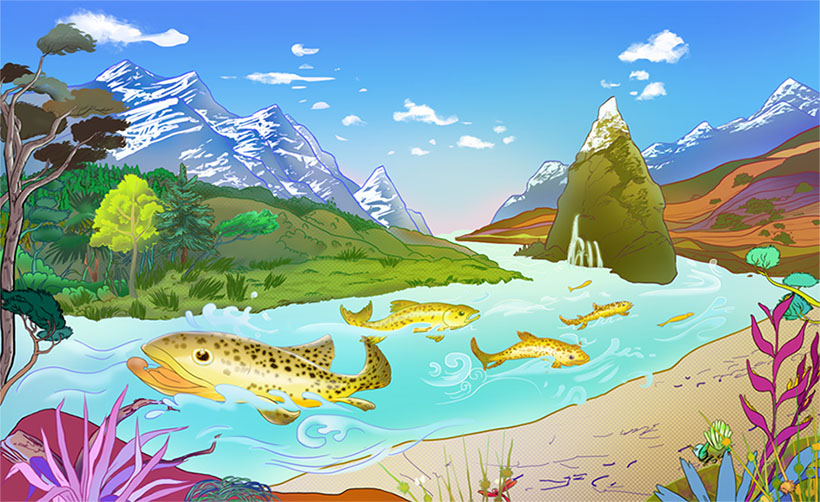
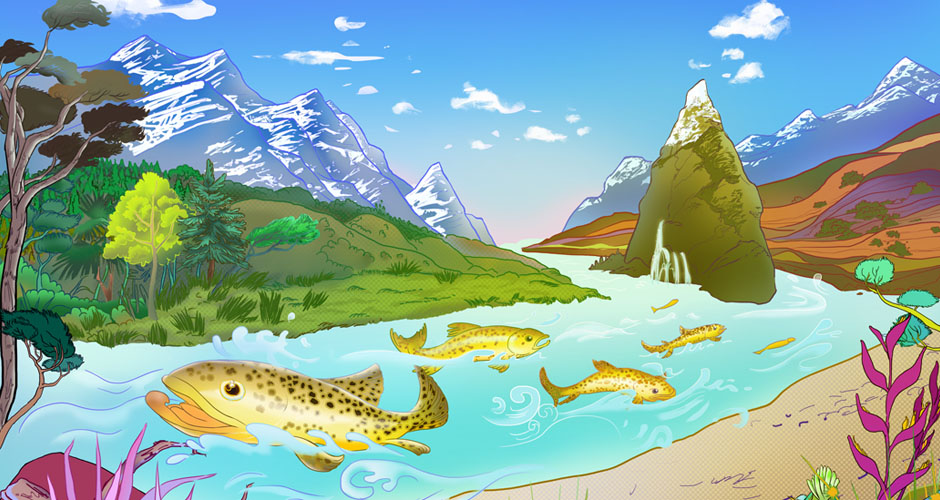
page width 840 to 960

diff --git a/css/main.css b/css/main.css
@@ -24,13 +24,13 @@ A{
 }
 
 #logo{
-	width:840px;
+	width:960px;
 	margin:20px auto 0px;
 }
 
 /*navigator*/
 #navigator{
-	width:840px;
+	width:960px;
 	margin:10px auto 0px;
 }
 #navigator A{
@@ -95,7 +95,7 @@ A{
 
 #pager div{
 	margin:0px auto;
-	width:840px;
+	width:960px;
 	text-align:right;
 }
 
@@ -129,7 +129,7 @@ A{
 
 #footer{
 	margin: 0px auto 50px;
-	width:840px;
+	width:960px;
 	height:180px;
 	font-family:Helvetica;
 }
@@ -154,7 +154,7 @@ A{
 #footer .post{
 	float:left;
 	height:100%;
-	width:300px;
+	width:400px;
 }
 
 #footer .recentPost{
@@ -204,12 +204,12 @@ A{
 /*slider*/
 .rslides_container {
   margin: 20px auto;
-  width: 820px;
+  width: 940px;
 }
 
 /* serial folder */
 .SerialBox{
-	width:840px;
+	width:960px;
 	height:560px;
 	margin: 20px auto;
 }
@@ -220,11 +220,11 @@ A{
 }
 
 .SerialBox .cell{
-	width:245px;
+	width:285px;
 	height:100%;
 	border:solid 1px #acacac;
 	float:left;
-	margin:0px 10px 0px 10px;
+	margin:0px 15px 0px 15px;
 	cursor: pointer;
 }
 
@@ -233,6 +233,7 @@ A{
 	width:100%;
 	height:200px;
 	border-bottom:solid 1px #acacac;
+	text-align:center;
 }
 
 .SerialBox .cell .caption{

diff --git a/js/main.js b/js/main.js
@@ -97,8 +97,8 @@ function GridView(gv, cfg, data){
 //Album
 function Album(album, images, config){
 	var _config = {
-		width: 840,
-		target_row_height: 200,
+		width: 960,
+		target_row_height: 240,
 		margin: 12,	//for calculation, also define in css
 		rows_per_page: 4,
 		image_folder:"works/sketch/"
